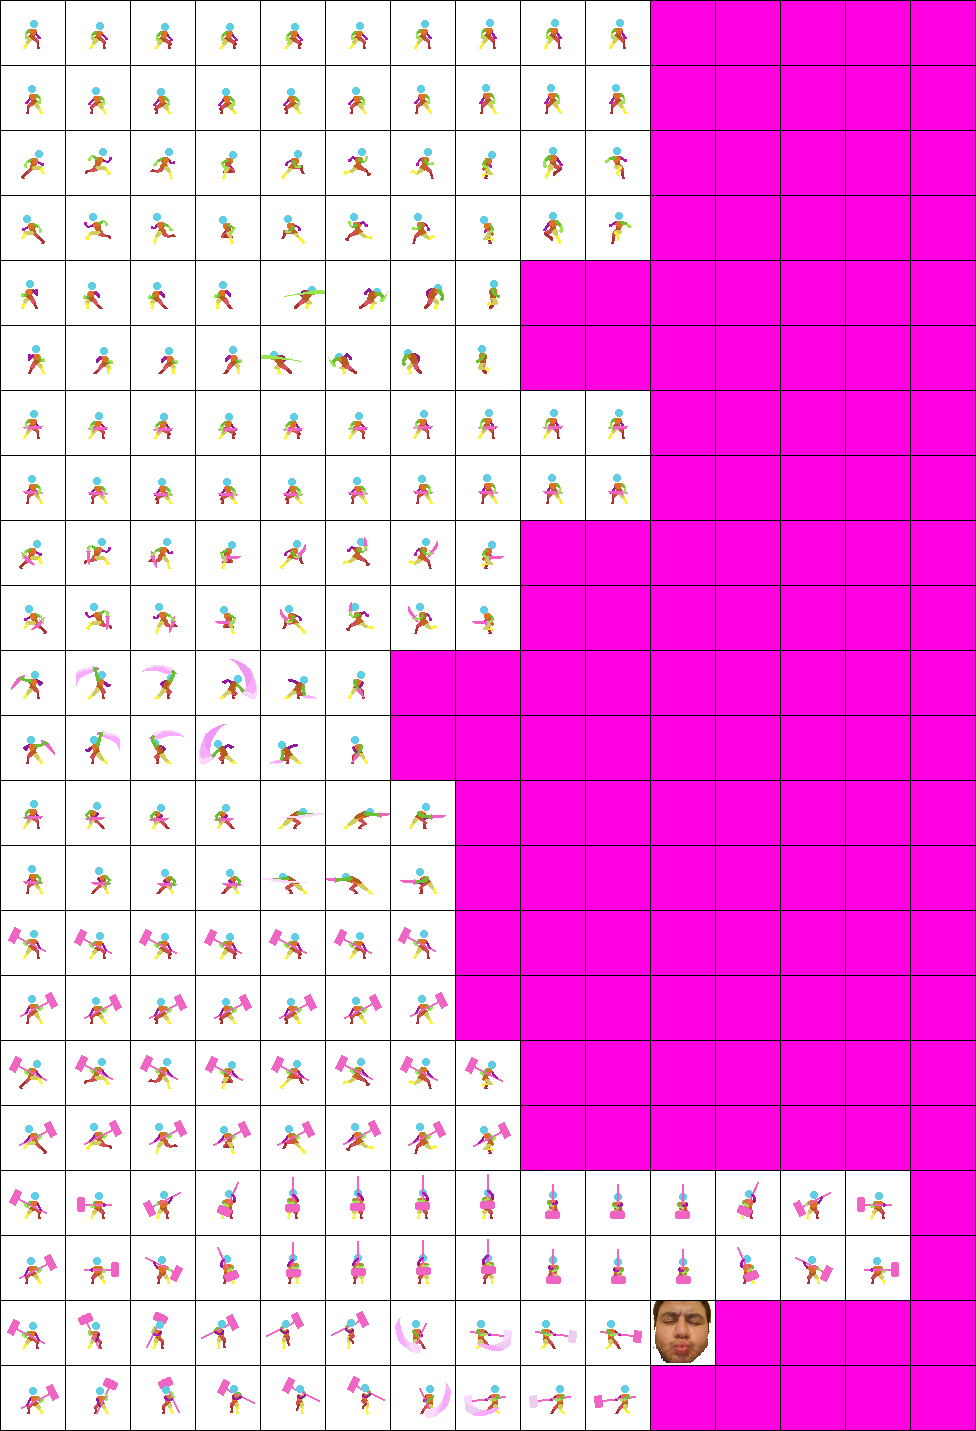
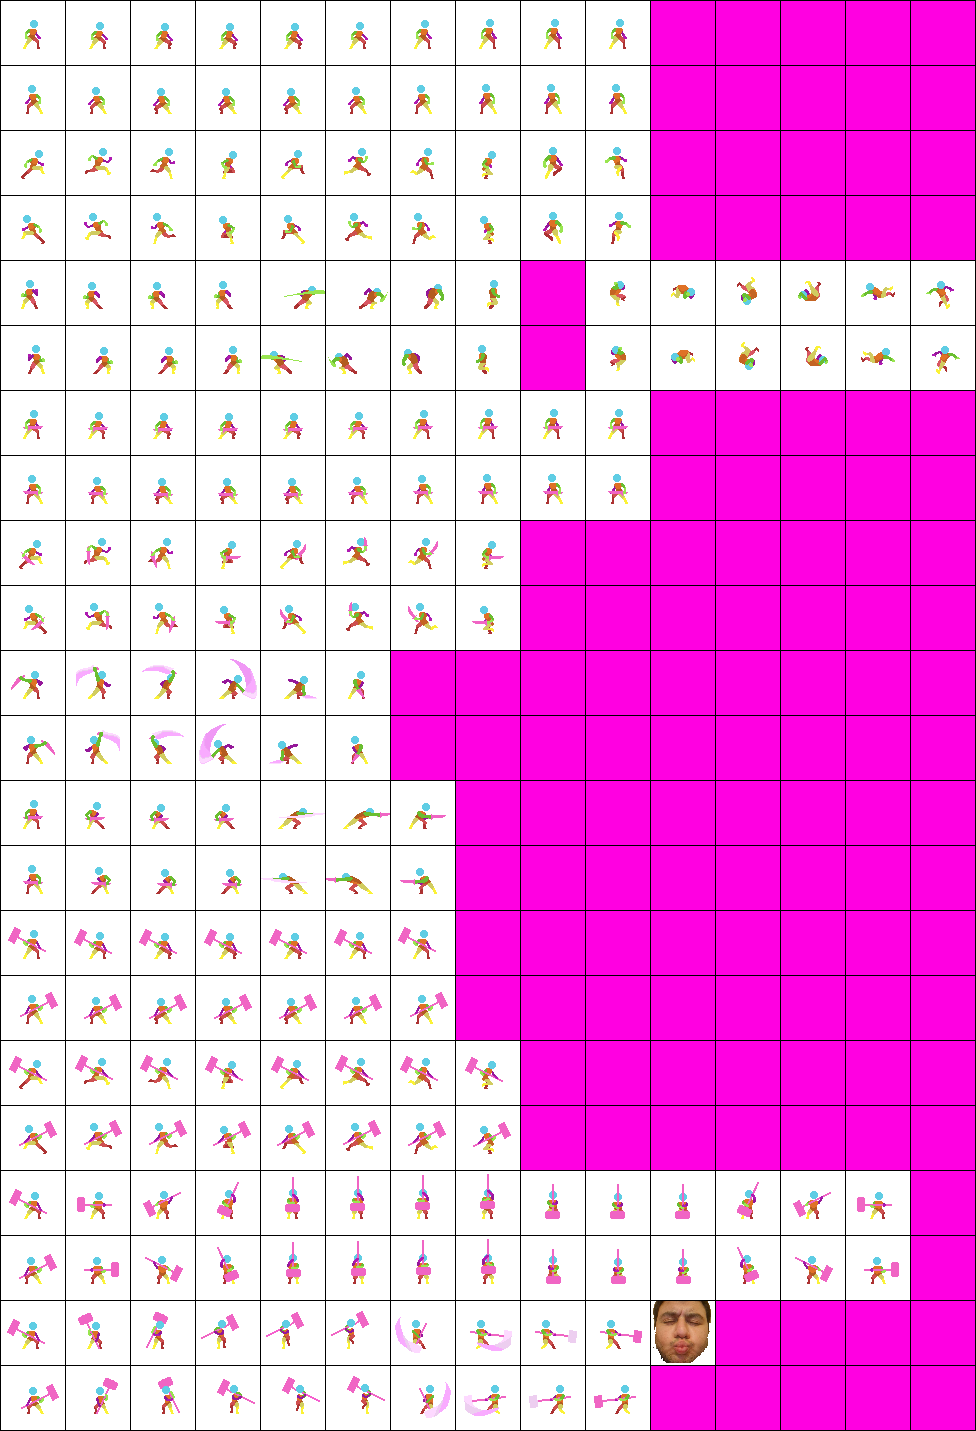
Added player double jump

Changed region(s): [[0.584, 0.1845, 1.0, 0.2767]]

diff --git a/GameProject2023/src/game_objects/Player.java b/GameProject2023/src/game_objects/Player.java
@@ -36,7 +36,10 @@ public class Player extends Creature {
 
 	private float runningSpeed = 3f;
 	private float jumpingSpeed = -8.5f;
-	
+
+	private int availableJumps = 2;
+	private boolean doubleJumping = false;
+
 	private boolean canInteract = true;
 	private long lastInteractTimer;
 
@@ -53,7 +56,7 @@ public class Player extends Creature {
 		weapon = new SwordWeapon(objectHandler);
 
 		invulnerableDuration = 700;
-		
+
 		animationHandler = new PlayerAnimationHandler(this);
 		jumpSprites = TextureLoader.getInstance().getTextures(TextureName.PlayerJump);
 		texture = TextureLoader.getInstance().getTextures(TextureName.PlayerIdle)[0];
@@ -82,6 +85,12 @@ public class Player extends Creature {
 		handleMovement();
 		handleObjectInteraction();
 		
+		// Reset double jump if the animation is over
+		if (doubleJumping && animationHandler.isDoubleJumpAnimationFinished()) {
+			animationHandler.resetDoubleJumpAnimations();
+			doubleJumping = false;
+		}
+
 		// Handle ability usage
 		if (mouseInput.isAttackButtonPressed() || 
 				(weapon.getAbility(0) != null && weapon.getAbility(0).isAbilityBeingUsed()))
@@ -92,7 +101,7 @@ public class Player extends Creature {
 		if (keyInput.isSecondAbilityKeyPressed() ||
 				(weapon.getAbility(2) != null && weapon.getAbility(2).isAbilityBeingUsed()))
 			weapon.useAbility(2);
-		
+
 		runAnimations();
 	}
 
@@ -105,7 +114,7 @@ public class Player extends Creature {
 			int consoleX = 180, consoleY = 10;
 			g.setFont(new Font("Calibri", Font.PLAIN, 15));
 			g.setColor(new Color(0, 0, 0, 150));
-			g.fillRect(consoleX - 5, consoleY, 170, 195);
+			g.fillRect(consoleX - 5, consoleY, 170, 235);
 
 			g.setColor(new Color(220, 80, 80));
 			g.drawString("Health......................" + (int) health, consoleX, consoleY += 20);
@@ -119,9 +128,11 @@ public class Player extends Creature {
 			g.setColor(Color.white);
 			g.drawString("Falling....................." + falling, consoleX, consoleY += 20);
 			g.drawString("Jumping.................." + jumping, consoleX, consoleY += 20);
+			g.drawString("Double Jumping......." + doubleJumping, consoleX, consoleY += 20);
 			g.drawString("Invulnerable............" + invulnerable, consoleX, consoleY += 20);
 			g.drawString("Knocked back.........." + knockedBack, consoleX, consoleY += 20);
-			g.drawString("Can Interact............" + canInteract, consoleX, consoleY += 20);
+			g.drawString("Can Interact............." + canInteract, consoleX, consoleY += 20);
+			g.drawString("Available Jumps.........." + availableJumps, consoleX, consoleY += 20);
 
 			Graphics2D g2d = (Graphics2D) g;
 			g2d.setColor(Color.white);
@@ -157,10 +168,34 @@ public class Player extends Creature {
 		else if ((rightPressed && leftPressed) || (!rightPressed && !leftPressed))
 			velX = 0;
 
-		// Vertical movement
-		if (!jumping && keyInput.isJumpKeyPressed()) {
-			velY = jumpingSpeed;
-			jumping = true;
+		// Jump / Double jump
+		// Allows the player to do multiple jumps without touching the ground.
+		// Available jump count is reset when the player hits the ground.
+		// This is handled during the block collision check.
+		if (keyInput.isJumpKeyPressed()) {
+			// If the player is grounded and did not perform a jump yet
+			if (!falling && !jumping && availableJumps == 2) {
+				availableJumps = 1;
+				jumping = true;
+				velY = jumpingSpeed;
+
+				// This is set to false so that the user has to press the jump key
+				// a second time to perform the double jump.
+				keyInput.setJumpKeyPressed(false);
+			}
+			// If the player did not perform a jump but is mid air (e.g. walking off from a cliff).
+			else if (falling && !jumping && availableJumps == 2) {
+				availableJumps = 0;
+				doubleJumping = true;
+				velY = jumpingSpeed;
+			}
+			// If the player performed 1 jump and is still mid air
+			else if (falling && jumping && availableJumps == 1) {
+				availableJumps = 0;
+				doubleJumping = true;
+				velY = jumpingSpeed;
+			}
+
 		}
 	}
 
@@ -180,16 +215,17 @@ public class Player extends Creature {
 	public void applyKnockback(float velX, float velY) {
 		if (knockedBack && invulnerable)
 			return;
-		
+
 		knockedBack = true;
 		this.velX = velX;
 		this.velY = velY;
 	}
 
+	// Handles collision with other objects and item pick ups.
 	private void handleObjectInteraction() {
 		ArrayList<GameObject> midLayer = objectHandler.getLayer(ObjectHandler.MIDDLE_LAYER);
 		falling = true;
-		
+
 		for (int i = midLayer.size() - 1; i >= 0; i--) {
 			GameObject other = midLayer.get(i);
 			if (other.equals(this))
@@ -200,12 +236,12 @@ public class Player extends Creature {
 				checkBlockCollision(other);
 			if (other.getObjectId().getCategory() == Category.DiagonalBlock)
 				checkDiagonalBlockCollision(other);
-			
+
 			// Check Item Pickup
 			if (canInteract && keyInput.isInteractKeyPressed() && other.getObjectId().getCategory() == Category.Item) {
 				if (getBounds().intersects(other.getBounds())) {
 					((Item) other).pickupItem();
-					
+
 					canInteract = false;
 					lastInteractTimer = System.currentTimeMillis();
 				}
@@ -219,14 +255,17 @@ public class Player extends Creature {
 		// Check if the player is grounded or not
 		if (getGroundCheckBounds().intersects(otherBounds))
 			falling = false;
-		
+
 		// Bottom collision
 		if (getBottomBounds().intersects(otherBounds)) {
 			y = other.getY() - height;
 			velY = 0;
 			jumping = false;
+			// Reset available jump count after hitting the ground
+			availableJumps = 2;
+			doubleJumping = false;
 
-			// Reset knock back after hitting the ground
+			// Reset knock back status after hitting the ground
 			if (knockedBack) {
 				knockedBack = false;
 				velX = 0;
@@ -297,6 +336,10 @@ public class Player extends Creature {
 		// Using third ability
 		else if (weapon.getAbility(2) != null && weapon.getAbility(2).isAbilityBeingUsed())
 			weapon.getAbility(2).getAnimation(directionToIndex).runAnimation();
+		else if (doubleJumping) {
+			animationHandler.getDoubleJumpAnimation(1).runAnimation();
+			animationHandler.getDoubleJumpAnimation(-1).runAnimation();
+		}
 		// Idle
 		else if (velX == 0)
 			animationHandler.getIdleAnimation().runAnimation();
@@ -317,13 +360,17 @@ public class Player extends Creature {
 		else if (weapon.getAbility(2) != null && weapon.getAbility(2).isAbilityBeingUsed())
 			weapon.getAbility(2).getAnimation(directionToIndex).drawAnimation(g, (int) x - width / 2, (int) y - height / 2, width * 2, height * 2);
 		// Jumping
-		else if (jumping) {
-			// Going up
-			if (velY <= 0)
-				g.drawImage(jumpSprites[directionToIndex * 2], (int) x - width / 2, (int) y - height / 2, width * 2, height * 2, null);
-			// Going down
-			else if (velY > 0)
-				g.drawImage(jumpSprites[directionToIndex * 2 + 1], (int) x - width / 2, (int) y - height / 2, width * 2, height * 2, null);	
+		else if (jumping || doubleJumping) {
+			if (!doubleJumping) {
+				// Going up
+				if (velY <= 0)
+					g.drawImage(jumpSprites[directionToIndex * 2], (int) x - width / 2, (int) y - height / 2, width * 2, height * 2, null);
+				// Going down
+				else if (velY > 0)
+					g.drawImage(jumpSprites[directionToIndex * 2 + 1], (int) x - width / 2, (int) y - height / 2, width * 2, height * 2, null);
+			}
+			else
+				animationHandler.getDoubleJumpAnimation().drawAnimation(g, (int) x - width / 2, (int) y - height / 2, width * 2, height * 2);
 		}
 		// Idle
 		else if (velX == 0)
@@ -332,7 +379,7 @@ public class Player extends Creature {
 		else if (velX != 0)
 			animationHandler.getRunAnimation().drawAnimation(g, (int) x - width / 2, (int) y - height / 2, width * 2, height * 2);
 	}
-	
+
 	public Weapon getWeapon() {
 		return weapon;
 	}

diff --git a/GameProject2023/src/game_objects/PlayerAnimationHandler.java b/GameProject2023/src/game_objects/PlayerAnimationHandler.java
@@ -1,13 +1,27 @@
 package game_objects;
 
+import framework.TextureLoader;
+import framework.TextureLoader.TextureName;
 import window.Animation;
 
 public class PlayerAnimationHandler {
 
 	private Player player;
+	
+	private Animation[] doubleJumpAnimations;
 
 	public PlayerAnimationHandler(Player player) {
 		this.player = player;
+		setupAnimations();
+	}
+	
+	private void setupAnimations() {
+		int doubleJumpDelay = 8;
+		doubleJumpAnimations = new Animation[2];
+		doubleJumpAnimations[0] = new Animation(TextureLoader.getInstance().getTexturesByDirection(TextureName.PlayerDoubleJump,
+				1), doubleJumpDelay, false);
+		doubleJumpAnimations[1] = new Animation(TextureLoader.getInstance().getTexturesByDirection(TextureName.PlayerDoubleJump,
+				-1), doubleJumpDelay, false);
 	}
 	
 	public Animation getIdleAnimation() {
@@ -18,6 +32,10 @@ public class PlayerAnimationHandler {
 		return player.getWeapon().getRunAnimation()[getIndexFromDirection()];
 	}
 	
+	public Animation getDoubleJumpAnimation() {
+		return doubleJumpAnimations[getIndexFromDirection()];
+	}
+	
 	/**
 	 * Maps the player's direction to array indices: (-1,1) becomes (1,0).
 	 * This is possible because sprites that are facing right are loaded in the 0th index,
@@ -25,6 +43,22 @@ public class PlayerAnimationHandler {
 	 */
 	public int getIndexFromDirection() {
 		return (-player.getDirection() + 1) / 2;
+	}
+	
+	public Animation getDoubleJumpAnimation(int direction) {
+		if (direction == 1)
+			return doubleJumpAnimations[0];
+		else
+			return doubleJumpAnimations[1];
+	}
+	
+	public boolean isDoubleJumpAnimationFinished() {
+		return doubleJumpAnimations[0].isPlayedOnce() || doubleJumpAnimations[1].isPlayedOnce();
+	}
+	
+	public void resetDoubleJumpAnimations() {
+		doubleJumpAnimations[0].resetAnimation();
+		doubleJumpAnimations[1].resetAnimation();
 	}
 
 }

diff --git a/GameProject2023/src/framework/TextureLoader.java b/GameProject2023/src/framework/TextureLoader.java
@@ -17,6 +17,7 @@ public class TextureLoader {
 		PlayerAttack,
 		PlayerUppercut,
 		PlayerJump,
+		PlayerDoubleJump,
 		
 		PlayerSwordIdle,
 		PlayerSwordRun,
@@ -122,6 +123,13 @@ public class TextureLoader {
 			for (int i = 0; i < 2; i++) {
 				textures[i] = playerSheet.getSubimage(521 + i * 65, 131, 64, 64);
 				textures[i + 2] = playerSheet.getSubimage(521 + i * 65, 196, 64, 64);
+			}
+			break;
+		case PlayerDoubleJump:
+			textures = new BufferedImage[12];
+			for (int i = 0; i < 6; i++) {
+				textures[i] = playerSheet.getSubimage(586 + i * 65, 261, 64, 64);
+				textures[i + 6] = playerSheet.getSubimage(586 + i * 65, 326, 64, 64);
 			}
 			break;
 		case PlayerSwordIdle:
@@ -295,7 +303,6 @@ public class TextureLoader {
 				textures[i + 8] = enemySheet.getSubimage(1 + i * 65, 1431, 64, 64);
 			}
 			break;
-			// TODO
 		case BullEnemyStunned:
 			textures = new BufferedImage[36];
 			for (int i = 0; i < 10; i++)

diff --git a/GameProject2023/src/window/KeyInput.java b/GameProject2023/src/window/KeyInput.java
@@ -158,6 +158,10 @@ public class KeyInput extends KeyAdapter {
 		return jumpKeyPressed;
 	}
 	
+	public void setJumpKeyPressed(boolean isPressed) {
+		jumpKeyPressed = isPressed;
+	}
+	
 	public boolean isCrouchKeyPressed() {
 		return crouchKeyPressed;
 	}
